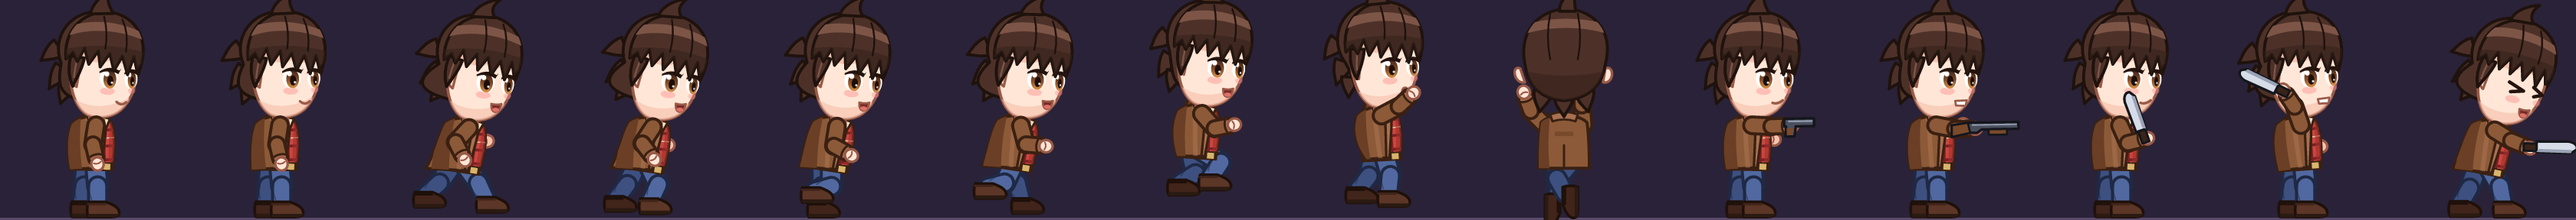
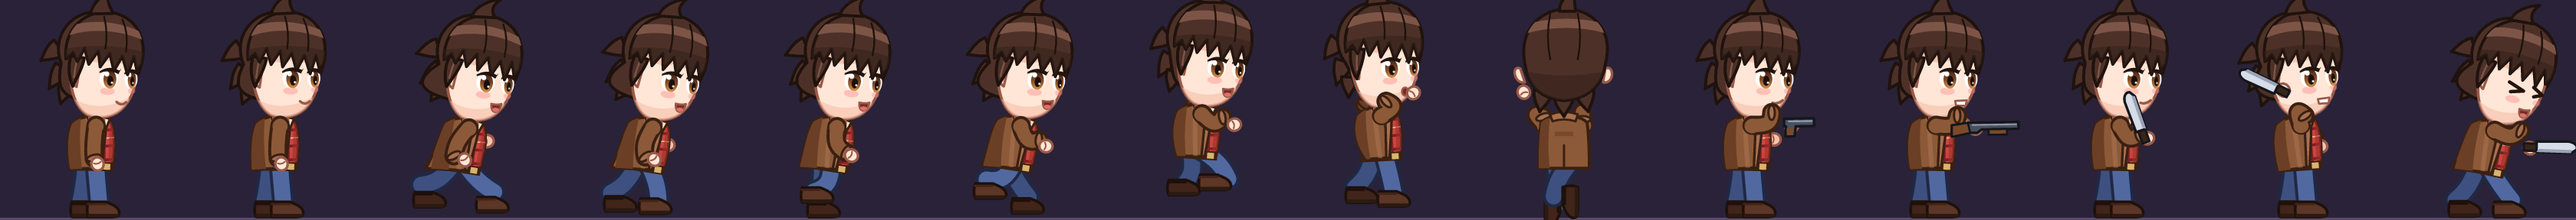
Bigger characters and smoother limbs
Zoom the game camera to 5x (256x160 world units on the 1280x800 canvas), the
most that still fits a whole room top to bottom, and centre it a little above
the player so the floor sits low and the ceiling stays in view. High-res art is
now rendered at 5 px per unit; the HUD keeps its 320x200 layout.

Arms and legs are now one smooth curve around the elbow or knee, with the
shoulder end blended into the jacket, instead of two pinned segments.

Claude-Session: https://claude.ai/code/session_01PyyKyUuXsnpWkKySPvDS7v

diff --git a/src/scenes/HudScene.ts b/src/scenes/HudScene.ts
@@ -1,5 +1,5 @@
 import Phaser from 'phaser';
-import { GAME_HEIGHT, GAME_WIDTH, REG, RENDER_SCALE, TEXT_RES, SKINS, WEAPONS, type WeaponId, type WeaponStats } from '../config';
+import { HUD_HEIGHT, HUD_SCALE, HUD_WIDTH, REG, RENDER_SCALE, TEXT_RES, SKINS, WEAPONS, type WeaponId, type WeaponStats } from '../config';
 import { currentSkin, faceCrop, nextSkin } from '../skins';
 import { pad, type PadButton } from '../input/VirtualPad';
 import type { HudMessage } from './GameScene';
@@ -25,10 +25,10 @@ export class HudScene extends Phaser.Scene {
   }
 
   create(): void {
-    // Laid out in world units like the game: the camera zooms them up from the top-left corner.
-    this.cameras.main.setOrigin(0, 0).setZoom(RENDER_SCALE);
+    // Laid out on a 320x200 grid: the camera zooms it up from the top-left corner to fill the canvas.
+    this.cameras.main.setOrigin(0, 0).setZoom(HUD_SCALE);
     const style = { ...TEXT_RES, fontFamily: 'monospace', fontSize: '8px', color: '#ffffff' };
-    this.add.rectangle(0, 0, GAME_WIDTH, 11, 0x000000, 0.6).setOrigin(0, 0);
+    this.add.rectangle(0, 0, HUD_WIDTH, 11, 0x000000, 0.6).setOrigin(0, 0);
     this.scoreText = this.add.text(4, 2, '', style);
     this.livesText = this.add.text(124, 2, '', style);
     // The player's face beside LIVES: it shows the skin being worn, and clicking or tapping it
@@ -39,7 +39,7 @@ export class HudScene extends Phaser.Scene {
     this.input.keyboard?.on('keydown-K', () => this.changeSkin());
     // One icon per weapon, right to left before the key. Tapping or clicking them switches weapons.
     this.weaponMark = this.add.rectangle(0, 5, 0, 10).setStrokeStyle(1, 0xffffff, 0.6).setVisible(false);
-    let right = GAME_WIDTH - 28;
+    let right = HUD_WIDTH - 28;
     for (const id of (Object.keys(WEAPONS) as WeaponId[]).reverse()) {
       const icon = this.add.image(right, 6, WEAPONS[id].icon).setOrigin(1, 0.5);
       right -= icon.displayWidth + 6;
@@ -47,17 +47,17 @@ export class HudScene extends Phaser.Scene {
     }
     const iconsLeft = right + 2;
     this.add
-      .zone(iconsLeft, 0, GAME_WIDTH - 24 - iconsLeft, 14)
+      .zone(iconsLeft, 0, HUD_WIDTH - 24 - iconsLeft, 14)
       .setOrigin(0, 0)
       .setInteractive()
       .on('pointerdown', () => {
         pad.press('switch');
         pad.release('switch');
       });
-    this.keyIcon = this.add.image(GAME_WIDTH - 12, 5, 'key');
+    this.keyIcon = this.add.image(HUD_WIDTH - 12, 5, 'key');
 
     this.message = this.add
-      .text(GAME_WIDTH / 2, 70, '', { ...style, align: 'center', stroke: '#000000', strokeThickness: 3, lineSpacing: 4 })
+      .text(HUD_WIDTH / 2, 70, '', { ...style, align: 'center', stroke: '#000000', strokeThickness: 3, lineSpacing: 4 })
       .setOrigin(0.5, 0.5);
 
     this.registry.events.on('changedata', this.onChange, this);
@@ -66,7 +66,7 @@ export class HudScene extends Phaser.Scene {
 
     // Faint build version in the bottom-right corner, so it's easy to tell which build is running.
     this.add
-      .text(GAME_WIDTH - 2, GAME_HEIGHT - 1, __VERSION__, { ...TEXT_RES, fontFamily: 'monospace', fontSize: '6px', color: '#ffffff' })
+      .text(HUD_WIDTH - 2, HUD_HEIGHT - 1, __VERSION__, { ...TEXT_RES, fontFamily: 'monospace', fontSize: '6px', color: '#ffffff' })
       .setOrigin(1, 1)
       .setAlpha(0.35);
 
@@ -130,17 +130,17 @@ export class HudScene extends Phaser.Scene {
     this.input.addPointer(3); // up to four fingers at once
     // A d-pad on the left (up and down climb ladders), FIRE and JUMP on the right.
     const cx = 48;
-    const cy = GAME_HEIGHT - 44;
+    const cy = HUD_HEIGHT - 44;
     const tri = (x: number, y: number, ...pts: number[]) => this.add.triangle(x, y, ...pts, 0xffffff);
     this.touchButton('left', cx - 26, cy, (x, by) => tri(x, by, 6, 0, 6, 12, 0, 6), 13, { x: 18, w: 36, h: 40 });
     this.touchButton('right', cx + 26, cy, (x, by) => tri(x, by, 0, 0, 0, 12, 6, 6), 13, { x: 78, w: 36, h: 40 });
     this.touchButton('up', cx, cy - 24, (x, by) => tri(x, by, 0, 6, 12, 6, 6, 0), 13, { y: cy - 28, w: 28, h: 32 });
     this.touchButton('down', cx, cy + 24, (x, by) => tri(x, by, 0, 0, 12, 0, 6, 6), 13, { y: cy + 28, w: 28, h: 32 });
-    const y = GAME_HEIGHT - 28;
-    this.fireLabel = this.touchButton('fire', GAME_WIDTH - 70, y, (x, by) => this.labelFor(x, by, 'FIRE'))[1] as Phaser.GameObjects.Text;
-    this.touchButton('jump', GAME_WIDTH - 26, y, (x, by) => this.labelFor(x, by, 'JUMP'));
+    const y = HUD_HEIGHT - 28;
+    this.fireLabel = this.touchButton('fire', HUD_WIDTH - 70, y, (x, by) => this.labelFor(x, by, 'FIRE'))[1] as Phaser.GameObjects.Text;
+    this.touchButton('jump', HUD_WIDTH - 26, y, (x, by) => this.labelFor(x, by, 'JUMP'));
     // USE sits above and between them, and only appears in front of something usable.
-    this.useButton = this.touchButton('use', GAME_WIDTH - 48, y - 42, (x, by) => this.labelFor(x, by, 'USE'), 14, { w: 36, h: 26 });
+    this.useButton = this.touchButton('use', HUD_WIDTH - 48, y - 42, (x, by) => this.labelFor(x, by, 'USE'), 14, { w: 36, h: 26 });
 
     // A tap away from the buttons restarts after winning or losing.
     this.input.on('pointerdown', (_p: Phaser.Input.Pointer, over: Phaser.GameObjects.GameObject[]) => {

diff --git a/src/config.ts b/src/config.ts
@@ -5,9 +5,18 @@
  * pixels per unit) shows at full detail while speeds, sizes and levels keep their units.
  */
 export const TILE = 16;
-export const GAME_WIDTH = 320;
-export const GAME_HEIGHT = 200;
-export const RENDER_SCALE = 4;
+export const GAME_WIDTH = 256;
+export const GAME_HEIGHT = 160;
+/**
+ * High-res pixels per world unit, and the game camera's zoom. 5 makes the 1280x800 canvas show
+ * 256x160 units: a room (9 tiles, 144 units) still fits top to bottom, with characters as big
+ * as they can be. High-res art (tools/art) is rendered at this density.
+ */
+export const RENDER_SCALE = 5;
+/** The HUD keeps its own 320x200 layout, zoomed to fill the same canvas. */
+export const HUD_WIDTH = 320;
+export const HUD_HEIGHT = 200;
+export const HUD_SCALE = (GAME_WIDTH * RENDER_SCALE) / HUD_WIDTH;
 /** Text style settings that keep small text sharp on the zoomed-in cameras. */
 export const TEXT_RES = { resolution: RENDER_SCALE } as const;
 
@@ -38,6 +47,11 @@ export const CAMERA = {
   lerp: 0.12,
   /** The camera never moves slower than this (px/s) until it arrives, so scrolls end cleanly. */
   minSpeed: 60,
+  /**
+   * How far above the player the camera centres (world units), so the floor they stand on
+   * sits near the bottom of the screen and the room above them, up to its ceiling, is in view.
+   */
+  lookUp: 48,
 };
 
 // ============================================================================
@@ -367,12 +381,12 @@ export interface SkinStats {
    * Without it the sheet is the old 20x24 pixel-art strip, scaled up with crisp pixels.
    */
   hd?: boolean;
-  /** The part of frame 0 shown as the face in the HUD, in high-res pixels: x, y, width, height. */
+  /** The part of frame 0 shown as the face in the HUD, in world units (a frame is 20x24): x, y, width, height. */
   face?: readonly [number, number, number, number];
 }
 
 export const SKINS = {
-  hunter: { name: 'GHOST HUNTER', sheet: 'hd/player-hunter.png', hd: true, face: [14, 2, 52, 44] },
+  hunter: { name: 'GHOST HUNTER', sheet: 'hd/player-hunter.png', hd: true, face: [3.5, 0.5, 13, 11] },
   weaver: { name: 'THE WEAVER', sheet: 'player-weaver.png' },
   ink: { name: 'INK', sheet: 'player-ink.png' },
 } satisfies Record<string, SkinStats>;

diff --git a/src/skins.ts b/src/skins.ts
@@ -32,8 +32,8 @@ export const PLAYER_HD_FRAMES = {
   held: { pistol: 46, shotgun: 54, machete: 62 } as Record<WeaponId, number>,
   total: 70,
 } as const;
-/** The default face crop in the HUD: the head of an old pixel-art skin, scaled up. */
-const PIXEL_FACE = [4, 1, 13, 11].map((n) => n * RENDER_SCALE) as unknown as readonly [number, number, number, number];
+/** The default face crop in the HUD (world units): the head of an old pixel-art skin. */
+const PIXEL_FACE = [4, 1, 13, 11] as const;
 
 export const skinIds = Object.keys(SKINS) as SkinId[];
 
@@ -71,9 +71,10 @@ export function currentSkin(scene: Phaser.Scene): SkinId {
   return (scene.registry.get(REG.skin) as SkinId | undefined) ?? savedSkin();
 }
 
-/** Which part of frame 0 to show as the face in the HUD, for a skin. */
+/** Which part of frame 0 to show as the face in the HUD, for a skin, in high-res pixels. */
 export function faceCrop(id: SkinId): readonly [number, number, number, number] {
-  return (SKINS[id] as SkinStats).face ?? PIXEL_FACE;
+  const [x, y, w, h] = (SKINS[id] as SkinStats).face ?? PIXEL_FACE;
+  return [x * RENDER_SCALE, y * RENDER_SCALE, w * RENDER_SCALE, h * RENDER_SCALE];
 }
 
 /** Repaints the 'player' texture with a skin and remembers the choice. */

diff --git a/src/scenes/GameScene.ts b/src/scenes/GameScene.ts
@@ -833,7 +833,7 @@ export class GameScene extends Phaser.Scene {
     const cam = this.cameras.main;
     return axis === 'x'
       ? cam.clampX(this.cameraTarget.x - cam.width / 2)
-      : cam.clampY(this.cameraTarget.y - cam.height / 2);
+      : cam.clampY(this.cameraTarget.y - CAMERA.lookUp - cam.height / 2);
   }
 
   private updatePlayer(time: number): void {
